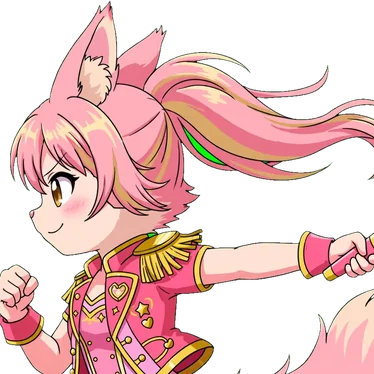
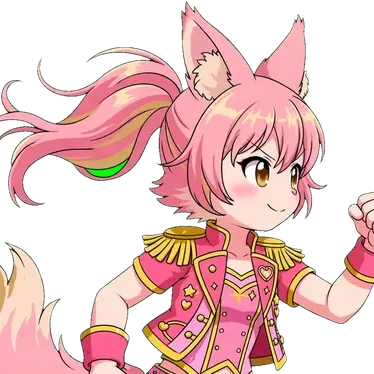
feat(moves): directional normals + 3-hit chain combo; fix(facing): konko redrawn facing forward

diff --git a/js/sim.js b/js/sim.js
@@ -9,7 +9,7 @@
   function newFighter(ci, side) {
     const c = CHARS[ci];
     return { ci, x: side ? 610 : 350, y: GY, vx: 0, vy: 0, face: side ? -1 : 1, hp: c.hp, meter: 30,
-      st: 'idle', t: 0, atk: '', air: 0, hn: 0, ht: -99, stun: 0, combo: 0, dcd: 0, inv: 0, wins: 0, pi: 0, cr: 0 };
+      st: 'idle', t: 0, atk: '', air: 0, hn: 0, ht: -99, stun: 0, combo: 0, dcd: 0, inv: 0, wins: 0, pi: 0, cr: 0, chainT: 0, lastKind: '' };
   }
   function newBattle(c0, c1) {
     return { f: [newFighter(c0, 0), newFighter(c1, 1)], p: [], timer: ROUND_FRAMES, round: 1,
@@ -23,9 +23,25 @@
     b.p = []; b.timer = ROUND_FRAMES; b.phase = 'intro'; b.pt = 0; b.rw = -1; b.tu = 0; b.stop = 0;
   }
   // 技データ。'l'=弱 'h'=強 's'=必殺。派生技（BRIEF4）: 'dl'/'dh'=ダッシュ攻撃、'al'/'ah'=空中の落下攻撃（弱・強のデータから作る）
-  const DERIVED = {};
+  // BRIEF5: 方向つき通常技 'cl'/'ch'=しゃがみ（↓）、'fl'/'fh'=前進（相手方向）、'bl'/'bh'=後退（逆方向）。チェイン 'l2'=2段目、'lf'=フィニッシュ
+  const DERIVED = {}, CHAIN = 28, CHAIN_LENIENCY = 6;
   function derive(c, k) {
-    const hv = k[1] === 'h', n = hv ? c.h : c.l;
+    const hv = k[1] === 'h' || k === 'lf', n = hv ? c.h : c.l;
+    switch (k) {
+      // しゃがみ技：低い位置を打つ（y0/y1 = 判定の下端・上端の高さ）。弱はリーチが長く硬直が短い、強は重いが発生が遅い
+      case 'cl': return Object.assign({}, n, { dmg: n.dmg * 0.9, rng: Math.round(n.rng * 1.15), rc: n.rc - 2, y0: 4, y1: 62, low: 1 });
+      case 'ch': return Object.assign({}, n, { dmg: n.dmg * 1.1, rng: Math.round(n.rng * 1.1), su: n.su + 2, y0: 4, y1: 62, low: 1 });
+      // 前進技：出した瞬間から有効フレームの終わりまで前に進み続ける（ダッシュ攻撃より遅い）
+      case 'fl': return Object.assign({}, n, { dmg: n.dmg * 1.1, rc: n.rc + 2, adv: 1.2 + c.spd * 0.3, step: 1 });
+      case 'fh': return Object.assign({}, n, { dmg: n.dmg * 1.05, rc: n.rc + 3, adv: 1.5 + c.spd * 0.35, step: 1 });
+      // 後退技：発生前のあいだ下がり（back = 速さ）、長いリーチで打つ。硬直が大きい
+      case 'bl': return Object.assign({}, n, { rng: Math.round(n.rng * 1.2), rc: n.rc + 4, back: 3 });
+      case 'bh': return Object.assign({}, n, { dmg: n.dmg * 1.15, rng: Math.round(n.rng * 1.2), rc: n.rc + 5, back: 3 });
+      // チェイン2段目：速く軽い。少し踏み込み、相手をあまり押さない（3段目が届くように）
+      case 'l2': return Object.assign({}, n, { su: Math.max(3, n.su - 2), dmg: n.dmg * 0.8, rc: n.rc - 2, adv: 3, kb: 3 });
+      // フィニッシュ：強ベース。大きく吹き飛ばし、ヒットストップが長い
+      case 'lf': return Object.assign({}, n, { su: n.su - 1, dmg: n.dmg * 1.15, kb: n.kb * 1.6, stopx: 3, adv: 3 });
+    }
     if (k[0] === 'd') // ダッシュ攻撃：前進しながら攻撃。踏み込み大・ダメージ中・硬直やや大
       return { su: n.su + (hv ? 0 : 2), ac: n.ac + 3, rc: n.rc + (hv ? 8 : 6), dmg: hv ? n.dmg : Math.round(n.dmg * 1.5), rng: n.rng + 8,
         adv: (hv ? 4.5 : 5.5) + c.spd * 0.6, hs: hv ? 24 : 19, kb: hv ? 10 : 7, heavy: hv ? 1 : 0, dash: 1 };
@@ -37,7 +53,8 @@
     if (k === 'l') return c.l; if (k === 'h') return c.h; if (k === 's' || !k) return c.sp;
     return DERIVED[c.id + k] || (DERIVED[c.id + k] = derive(c, k));
   }
-  const isHeavy = k => k === 'h' || k === 'dh' || k === 'ah'; // 強攻撃系（強・ダッシュ強・落下強）
+  const isHeavy = k => k === 'h' || k === 'lf' || (k.length === 2 && k[1] === 'h'); // 強攻撃系（強・ダッシュ強・落下強・しゃがみ強・前進強・後退強・フィニッシュ）
+  const chainStart = k => k === 'l' || k === 'cl' || k === 'fl'; // チェインの起点になれる弱攻撃
   function setSt(f, s) { if (f.st !== s) { f.st = s; f.t = 0; } }
   function hurt(f) {
     const c = CHARS[f.ci], sc = c.b.sc || 1;
@@ -55,19 +72,26 @@
       const chip = Math.max(1, Math.round(m.dmg * ca.pow * 0.12));
       d.hp = Math.max(1, d.hp - chip);
       d.st = 'block'; d.t = 0; d.stun = m.heavy ? 16 : 11; d.vx = dir * (m.kb || 4) * 0.7;
+      d.chainT = 0; if (!proj) a.chainT = 0; // ガードした側・された側ともチェイン窓は消える
       d.meter = Math.min(100, d.meter + 3);
       b.ev.push({ k: 'block', x: px, y: py }); b.stop = 3;
     } else {
       d.combo = d.st === 'hit' ? d.combo + 1 : 1;
       const scale = Math.max(0.4, 1 - 0.12 * (d.combo - 1));
       const dmg = Math.max(1, Math.round(m.dmg * ca.pow * scale));
-      d.hp -= dmg; d.st = 'hit'; d.t = 0; d.cr = 0; d.atk = ''; d.air = 0;
+      d.hp -= dmg; d.st = 'hit'; d.t = 0; d.cr = 0; d.atk = ''; d.air = 0; d.chainT = 0; // 被弾でチェイン窓は消える
       d.stun = m.hs || 15; d.vx = dir * (m.kb || 4);
+      // チェイン：弱系がコンボの1発目として当たる／2段目が当たると、攻撃側に窓が開く。
+      // 次の段（idle に戻ってすぐ押した場合＋猶予 CHAIN_LENIENCY フレーム）が連続ヒットになるだけ、のけぞりを延ばす
+      if (!proj && ((chainStart(a.atk) && d.combo === 1) || a.atk === 'l2')) {
+        a.chainT = CHAIN; a.lastKind = a.atk;
+        d.stun = Math.max(d.stun, m.ac + m.rc + mv(ca, a.atk === 'l2' ? 'lf' : 'l2').su + 1 + CHAIN_LENIENCY);
+      }
       if (m.launch) { d.vy = -m.launch; d.y = Math.min(d.y, GY - 1); d.stun = Math.max(d.stun, 34); }
       else if (d.y < GY) d.vy = -5;
       a.meter = Math.min(100, a.meter + dmg * 1.1); d.meter = Math.min(100, d.meter + dmg * 0.7);
       b.ev.push({ k: 'hit', x: px, y: py, h: (m.heavy || m.launch) ? 1 : 0, sp: m.sp ? 1 : 0, c: d.combo, s: ai, d: dmg });
-      b.stop = m.heavy ? 9 : 4; // ヒットストップ：強は弱の2倍以上
+      b.stop = (m.heavy ? 9 : 4) + (m.stopx || 0); // ヒットストップ：強は弱の2倍以上（フィニッシュはさらに +3）
       if (d.hp <= 0) { d.hp = 0; d.st = 'ko'; d.t = 0; d.vy = -9; d.vx = dir * 6; d.y = Math.min(d.y, GY - 1); }
     }
     if (!proj && a.y >= GY && (d.x <= XL + 2 || d.x >= XR - 2)) a.vx = -dir * (m.kb || 4) * 0.8;
@@ -76,10 +100,10 @@
 
   function startAtk(b, i, k) {
     const f = b.f[i];
-    f.st = 'atk'; f.t = 0; f.atk = k; f.hn = 0; f.ht = -99; f.air = f.y < GY ? 1 : 0; f.cr = 0;
+    f.st = 'atk'; f.t = 0; f.atk = k; f.hn = 0; f.ht = -99; f.air = f.y < GY ? 1 : 0; f.cr = 0; f.chainT = 0; // 何か技を出したら窓は閉じる
     if (f.air) { const o = b.f[1 - i]; if (o.x !== f.x) f.face = o.x > f.x ? 1 : -1; } // 落下攻撃は相手の方へ向き直る
     if (k === 's') b.ev.push({ k: 'sp', x: f.x, y: f.y - 70, s: i });
-    else b.ev.push({ k: 'sw', h: isHeavy(k) ? 1 : 0, v: k[0] === 'd' ? 1 : k[0] === 'a' ? 2 : 0, x: f.x, y: f.y, s: i });
+    else b.ev.push({ k: 'sw', h: isHeavy(k) ? 1 : 0, v: k[0] === 'd' ? 1 : k[0] === 'a' ? 2 : 0, m: k, x: f.x, y: f.y, s: i });
   }
 
   function spawnProj(b, i, f, m) {
@@ -103,7 +127,8 @@
         if (t === m.su) { f.vy = m.jump; f.vx = f.face * 3; }
         if (t < m.su + 4) f.inv = 2; else if (gnd) f.vx *= 0.7;
       } else if (gnd) {
-        if (m.dash) { if (t <= m.su + m.ac) f.vx = f.face * m.adv; else f.vx *= 0.7; } // ダッシュ攻撃：発生前から前進し続ける
+        if (m.dash || m.step) { if (t <= m.su + m.ac) f.vx = f.face * m.adv; else f.vx *= 0.7; } // ダッシュ攻撃・前進技：発生前から前進し続ける
+        else if (m.back && t <= m.su) f.vx = -f.face * m.back; // 後退技：発生前のあいだ下がる
         else if (m.adv && t > m.su - 2 && t <= m.su + m.ac) f.vx = f.face * m.adv; else f.vx *= 0.7;
       }
       if (ty === 'warp' && t === m.su - 1) {
@@ -139,6 +164,7 @@
     const f = b.f[i], o = b.f[1 - i], c = CHARS[f.ci];
     const pr = inp & ~f.pi; f.pi = inp; f.t++;
     if (f.dcd > 0) f.dcd--;
+    if (f.chainT > 0) f.chainT--;
     if (f.inv > 0) f.inv--;
     const gnd = f.y >= GY;
     if (f.st === 'hit' || f.st === 'block') {
@@ -157,8 +183,13 @@
       if (f.x !== o.x) f.face = o.x > f.x ? 1 : -1;
       f.cr = 0;
       if ((pr & K.S) && f.meter >= COST) { f.meter -= COST; startAtk(b, i, 's'); }
-      else if (pr & K.A) startAtk(b, i, 'l');
-      else if (pr & K.H) startAtk(b, i, 'h');
+      else if (pr & (K.A | K.H)) {
+        // チェイン窓が開いていれば 弱→2段目（l 系のあと）、強→フィニッシュ（2段目のあと）。それ以外は押した瞬間の方向で種別を決める
+        const lt = pr & K.A, fwd = f.face > 0 ? K.R : K.L, bwd = f.face > 0 ? K.L : K.R;
+        if (f.chainT > 0 && lt && chainStart(f.lastKind)) startAtk(b, i, 'l2');
+        else if (f.chainT > 0 && !lt && f.lastKind === 'l2') startAtk(b, i, 'lf');
+        else startAtk(b, i, ((inp & K.D) ? 'c' : (inp & fwd) ? 'f' : (inp & bwd) ? 'b' : '') + (lt ? 'l' : 'h'));
+      }
       else if (inp & K.G) { setSt(f, 'guard'); f.vx = 0; f.cr = (inp & K.D) ? 1 : 0; }
       else if ((pr & (K.DL | K.DR)) && !f.dcd) {
         f.st = 'dash'; f.t = 0; f.vx = ((pr & K.DL) ? -1 : 1) * (6 + c.spd * 1.2); f.dcd = 28;
@@ -251,7 +282,8 @@
 
   // ---- CPU AI ----
   const AI_T = { react: [26, 20, 14, 9, 5], aggr: [0.35, 0.5, 0.65, 0.8, 0.92], guard: [0.1, 0.25, 0.45, 0.65, 0.85], sp: [0.2, 0.35, 0.5, 0.7, 0.9] };
-  function newAI(lv) { return { lv: Math.max(1, Math.min(5, lv)), cd: 20, held: 0, mt: -99 }; }
+  const AI_CHAIN = [0.2, 0.33, 0.45, 0.55, 0.65]; // l 系を当てたあとチェインを狙う確率（Lv1〜5）。2段目→フィニッシュも同じ確率でもう一度判定
+  function newAI(lv) { return { lv: Math.max(1, Math.min(5, lv)), cd: 20, held: 0, mt: -99, cw: 0 }; }
   function aiInput(b, i, ai) {
     if (b.phase !== 'fight') return 0;
     const n = ai.lv - 1, f = b.f[i], o = b.f[1 - i], c = CHARS[f.ci], oc = CHARS[o.ci];
@@ -266,6 +298,11 @@
         ai.mt = b.frame; if (R() < AI_T.aggr[n] * 0.75) return (R() < 0.6 ? K.A : K.H);
       }
     }
+    // チェイン：窓が開いた時に1度だけ狙うか決め、idle に戻った最初のフレームで押す（反応待ち cd とは別枠）
+    if (f.chainT > 0) {
+      if (!ai.cw) ai.cw = R() < AI_CHAIN[n] ? 1 : 2;
+      if (ai.cw === 1 && (f.st === 'idle' || f.st === 'walk' || f.st === 'crouch')) { ai.cw = 2; ai.cd = Math.max(ai.cd, 4); return f.lastKind === 'l2' ? K.H : K.A; }
+    } else ai.cw = 0;
     if (ai.cd > 0) { ai.cd--; return ai.held; }
     let threat = o.st === 'atk' && o.atk && d < Math.min(mv(oc, o.atk).rng, 400) + 45;
     for (const p of b.p) if (p.o !== i && Math.abs(p.x - f.x) < 170 && (p.vx > 0) === (f.x > p.x)) threat = true;
@@ -284,10 +321,10 @@
     if (spOk && R() < AI_T.sp[n] * 0.45) tap = K.S;
     else if (d < c.l.rng + 8) {
       const q = R();
-      if (q < AI_T.aggr[n]) tap = R() < 0.6 ? K.A : K.H;
+      if (q < AI_T.aggr[n]) { tap = R() < 0.6 ? K.A : K.H; const z = R(); tap |= z < 0.13 ? K.D : z < 0.2 ? away : (z < 0.55 && d > c.l.rng * 0.55) ? toward : 0; } // たまにしゃがみ技・後退技、間合いが遠めなら前進技
       else if (q < AI_T.aggr[n] + 0.12) held = away;
       else held = K.G;
-    } else if (d < c.h.rng + 12 && R() < AI_T.aggr[n] * 0.7) tap = K.H;
+    } else if (d < c.h.rng + 12 && R() < AI_T.aggr[n] * 0.7) { const z = R(); tap = K.H | (z < 0.1 ? K.D : z < 0.18 ? away : z < 0.6 ? toward : 0); }
     else {
       const q = R();
       if (q < AI_T.aggr[n] + 0.12) {
@@ -300,6 +337,6 @@
     return held | tap;
   }
 
-  const api = { K, GY, XL, XR, COST, WINS, newBattle, step, mv, isHeavy, hurt, newAI, aiInput };
+  const api = { K, GY, XL, XR, COST, WINS, CHAIN, newBattle, step, mv, isHeavy, hurt, newAI, aiInput };
   if (NODE) module.exports = api; else root.NJC = Object.assign(root.NJC || {}, api);
 })(typeof window !== 'undefined' ? window : globalThis);

diff --git a/js/draw.js b/js/draw.js
@@ -49,7 +49,7 @@
   // 胴体の太い部分から事前に測った値で、ポーズを切り替えても体の位置が飛ばないようにする（武器やエフェクトの張り出しは無視）。
   const ART = {
     zanrai: [0.301, 0.467, 0.468, 0.46, 0.502], mikoto: [0.519, 0.444, 0.549, 0.579, 0.523], kagemaru: [0.366, 0.465, 0.446, 0.371, 0.518], gounen: [0.365, 0.407, 0.475, 0.44, 0.495],
-    konko: [0.517, 0.336, 0.398, 0.501, 0.487], raidenzan: [0.427, 0.411, 0.341, 0.454, 0.537], shuki: [0.452, 0.48, 0.587, 0.468, 0.514], shion: [0.445, 0.372, 0.48, 0.437, 0.493],
+    konko: [0.46, 0.336, 0.398, 0.473, 0.459], raidenzan: [0.427, 0.411, 0.341, 0.454, 0.537], shuki: [0.452, 0.48, 0.587, 0.468, 0.514], shion: [0.445, 0.372, 0.48, 0.437, 0.493],
     ougi: [0.532, 0.424, 0.483, 0.438, 0.555], nishiki: [0.244, 0.306, 0.43, 0.375, 0.515], kurotengu: [0.401, 0.489, 0.462, 0.409, 0.523], ryujin: [0.472, 0.468, 0.439, 0.489, 0.523],
     mumei: [0.445, 0.471, 0.517, 0.398, 0.417], kaguya: [0.492, 0.508, 0.578, 0.55, 0.463] };
   const POSES = ['atk', 'hit', 'grd', 'hev'];
@@ -274,7 +274,9 @@
 
   // ================= ファイター =================
   const UL = 28, LL = 30, TOR = 44, UA = 22, LA = 22, HR = 13;
-  const isHv = N.isHeavy, baseK = k => (k.length === 2 ? k[1] : k), varK = k => (k.length === 2 ? k[0] : ''); // 'dh' → 強 / ダッシュ
+  const isHv = N.isHeavy;
+  // 種別 → 基本（'l' 弱 / 'h' 強 / 's' 必殺）と、変種（'d' ダッシュ / 'a' 落下 / 'c' しゃがみ / 'f' 前進 / 'b' 後退 / '2' チェイン2段目 / 'x' フィニッシュ）
+  const baseK = k => (k === 'l2' ? 'l' : k === 'lf' ? 'h' : k.length === 2 ? k[1] : k), varK = k => (k === 'l2' ? '2' : k === 'lf' ? 'x' : k.length === 2 ? k[0] : '');
   const pt = (p, a, l) => ({ x: p.x + Math.sin(a) * l, y: p.y + Math.cos(a) * l });
   const BASE = { lean: 0.1, aF: [0.55, 1.9], aB: [0.25, 1.6], lF: [0.3, -0.05], lB: [-0.3, -0.3], w: 2.5 };
   const P = o => Object.assign({}, BASE, o);
@@ -316,6 +318,7 @@
           if (f.atk === 's' && m.spin) { const a = 1.57 + (t - m.su) * 0.9; p.aF = [a, a]; p.w = a; p.lean = 0.2; }
         } else p = mix(ps[1], BASE, Math.min(1, (t - m.su - m.ac) / m.rc));
         if (f.air) { p.lF = AIR_F; p.lB = AIR_B; }
+        else if (varK(f.atk) === 'c') { p.lF = CROUCH_F; p.lB = CROUCH_B; } // しゃがみ技
         return p;
       }
       default: return P({});
@@ -525,7 +528,8 @@
   // 斬撃の弧・ビーム・必殺技の溜めオーラ（ベクター／スプライト共通。向きを反転済みの座標系で呼ぶ）
   // geo: hx,hy=手元  cy=弧の中心の高さ  R=弧の半径  ay=オーラ中心の高さ  k=太さなどの倍率
   function drawAtkFx(c, f, m, g, alpha, geo) {
-    const t = f.t, ty = f.atk === 's' ? m.type : '', k = geo.k, hv = isHv(f.atk), fall = !!m.fall;
+    const t = f.t, ty = f.atk === 's' ? m.type : '', k = geo.k, hv = isHv(f.atk), fall = !!m.fall, vr = varK(f.atk);
+    const cy = vr === 'c' ? geo.cy * 0.7 : geo.cy; // しゃがみ技は弧の中心も低い
     const tail = hv ? 7 : 3; // 強の斬撃は長く残る
     if (t > m.su && t <= m.su + m.ac + tail && !(fall && !f.air)) {
       const u = fall ? 0.8 : 1 - (t - m.su) / (m.ac + tail + 1);
@@ -541,13 +545,25 @@
         let a0 = -0.5, a1 = 0.45;
         if (hv || ty === 'quake') { a0 = -1.45; a1 = 0.7; } else if (ty === 'upper') { a0 = -1.5; a1 = 0.7; } else if (ty) { a0 = -0.8; a1 = 0.7; }
         if (f.air || ty === 'dive') { a0 = -0.2; a1 = 1.3; }
+        else if (vr === 'c') { if (hv) { a0 = -0.3; a1 = 0.95; } else { a0 = 0.1; a1 = 0.85; } } // しゃがみ技：足元を払う低い弧
+        else if (vr === 'f') { a0 += 0.12; a1 += 0.18; } // 前進技：前へ突き出す
+        else if (vr === 'b') a0 -= 0.3; // 後退技：長く振り抜く
+        else if (vr === '2') { a0 = -0.28; a1 = 0.3; } // 2段目：小さい弧
         // 弱＝細く短い弧、強＝太く大きい二重の弧（発光はぼかしではなく、太い半透明の線を下に敷く）
-        const R = geo.R * (hv ? 1.14 : 1), lw = (ty ? 13 : hv ? 17 : 8) * k, a = alpha * Math.max(0, u);
+        const R = geo.R * (hv ? 1.14 : 1) * (vr === '2' ? 0.8 : vr === 'x' ? 1.1 : 1), lw = (ty ? 13 : hv ? 17 : 8) * k * (vr === '2' ? 0.75 : vr === 'x' ? 1.2 : 1), a = alpha * Math.max(0, u);
         c.lineCap = 'round'; c.strokeStyle = g;
-        c.globalAlpha = a * 0.26; c.lineWidth = lw * 2.3; c.beginPath(); c.arc(0, geo.cy, R, a0, a1); c.stroke();
-        c.globalAlpha = a; c.lineWidth = lw; c.beginPath(); c.arc(0, geo.cy, R, a0, a1); c.stroke();
-        if (hv) { c.globalAlpha = a * 0.55; c.lineWidth = lw * 0.5; c.beginPath(); c.arc(0, geo.cy, R - lw * 1.5, a0 + 0.25, a1 - 0.1); c.stroke(); c.globalAlpha = a; }
-        c.strokeStyle = '#fff'; c.lineWidth = (hv ? 4.5 : 2.5) * k; c.beginPath(); c.arc(0, geo.cy, R + 2, a0 + 0.1, a1 - 0.1); c.stroke();
+        c.globalAlpha = a * 0.26; c.lineWidth = lw * 2.3; c.beginPath(); c.arc(0, cy, R, a0, a1); c.stroke();
+        c.globalAlpha = a; c.lineWidth = lw; c.beginPath(); c.arc(0, cy, R, a0, a1); c.stroke();
+        if (hv) { c.globalAlpha = a * 0.55; c.lineWidth = lw * 0.5; c.beginPath(); c.arc(0, cy, R - lw * 1.5, a0 + 0.25, a1 - 0.1); c.stroke(); c.globalAlpha = a; }
+        c.strokeStyle = '#fff'; c.lineWidth = (hv ? 4.5 : 2.5) * k; c.beginPath(); c.arc(0, cy, R + 2, a0 + 0.1, a1 - 0.1); c.stroke();
+        if (vr === 'x') { // フィニッシュ：弧の先に十字の閃光
+          const q = Math.max(0, 1 - (t - m.su - 1) / 6), fx0 = R * 0.98, len = (70 + 50 * q) * k;
+          for (const [ang, w, col, al] of [[0.5, 9, g, 0.5], [0.5, 3.5, '#fff', 1], [-0.95, 7, g, 0.45], [-0.95, 2.5, '#fff', 0.9]]) {
+            c.globalAlpha = alpha * al * q; c.strokeStyle = col; c.lineWidth = w * k; c.beginPath();
+            c.moveTo(fx0 - Math.cos(ang) * len, cy - Math.sin(ang) * len); c.lineTo(fx0 + Math.cos(ang) * len, cy + Math.sin(ang) * len); c.stroke();
+          }
+          c.globalAlpha = alpha * 0.8 * q; c.fillStyle = '#fff'; c.beginPath(); c.arc(fx0, cy, 13 * k * (0.5 + q), 0, PI * 2); c.fill();
+        }
         c.lineCap = 'butt'; c.globalAlpha = alpha;
       }
     }
@@ -616,13 +632,21 @@
           else { const u = 1 - Math.min(1, (t - end) / m.rc); dx = 16 * u * u; rot = lean * u; if (u > 0.6) ghost = 2; }
         } else {
           // 弱＝小さく速い。強＝大きく引いて（溜め）深く踏み込む。突進系の必殺技は sim 側が本体を動かすので、見た目の踏み込みは小さくする
-          const big = hv && !sp, lean = f.atk === 'l' ? 0.08 : big ? 0.2 : 0.15;
-          const reach = f.atk === 'l' ? 20 : big ? 44 : (m.adv || ty === 'dive' || ty === 'upper' || ty === 'warp') ? 12 : 26;
-          const back = big ? 22 : 10, br = big ? 0.14 : 0.07, bs = big ? 0.09 : 0.05;
+          const big = hv && !sp, lt = !hv && !sp;
+          let lean = lt ? 0.08 : big ? 0.2 : 0.15;
+          let reach = lt ? 20 : big ? 44 : (m.adv || ty === 'dive' || ty === 'upper' || ty === 'warp') ? 12 : 26;
+          let back = big ? 22 : 10, br = big ? 0.14 : 0.07; const bs = big ? 0.09 : 0.05;
+          // BRIEF5 の変種（絵は同じ。傾き・踏み込み・潰しで差を付ける）
+          if (vr === 'f') { lean *= 2.1; reach += 8; back = 0; br = big ? -0.14 : -0.1; ghost = 1; } // 前進技：発生前から前のめり（引かない）
+          else if (vr === 'b') { back += 12; br += 0.17; lean += 0.1; reach += 6; } // 後退技：発生中は大きく後ろに反り、打ち出しで前傾
+          else if (vr === '2') { lean = 0.05; reach = 12; back = 3; br = 0.02; } // 2段目：小さく速い
+          else if (vr === 'x') { lean = 0.27; reach = 54; back = 26; } // フィニッシュ：強より深く
           if (t <= m.su) { let u = t / m.su; if (big) u = u * u * (3 - 2 * u); dx = -back * u; rot = -br * u; sy = 1 - bs * u; sx = 1 + bs * 0.4 * u; if (big && t > m.su - 3) dx += (t % 2 ? 1.5 : -1.5); } // 予備動作：沈んで後ろに引く（強は深く、最後に震える）
           else if (t <= end) { const u = Math.min(1, (t - m.su) / 2); dx = -back + (reach + back) * u; rot = -br + (lean + br) * u; if (m.adv) ghost = 2; }
           else { const u = 1 - Math.min(1, (t - end) / m.rc); dx = reach * u * u; rot = lean * u; }
           if (f.air || ty === 'dive') { py = H * 0.5; rot += 0.16; }
+          if (vr === 'c') { const q = t <= end ? Math.min(1, t / 3) : 1 - Math.min(1, (t - end) / m.rc); sy *= 1 - 0.22 * q; sx *= 1 + 0.06 * q; rot *= 0.6; } // しゃがみ技：低く潰して打つ
+          if (vr === 'x' && t > m.su && t <= m.su + 2) white = 0.55; // フィニッシュの出際は白く光る
         }
         if (ty === 'warp' && t < m.su) alpha *= 0.25 + 0.3 * Math.abs(Math.sin(t));
         if (f.ht >= 0 && t >= f.ht && t - f.ht <= 5) { const zz = 1 + (hv ? 0.13 : 0.08) * (1 - (t - f.ht) / 6); sx *= zz; sy *= zz; } // ヒットの瞬間だけ拡大（強は大きく）
@@ -770,7 +794,7 @@
       case 'warp': sparks(e.x, e.y, '#3dff9a', 10, 5); break;
       case 'shot': fx.rings.push({ x: e.x, y: e.y, r: 4, vr: 5, life: 8, col: CHARS[b.f[e.s].ci].col.g }); break;
       case 'dash': dust(e.x, 5, 2); break;
-      case 'sw': if (e.v === 1) dust(e.x, 4, 2.5); break; // ダッシュ攻撃の踏み切り
+      case 'sw': if (e.v === 1) dust(e.x, 4, 2.5); else if (e.m && e.m.length === 2 && (e.m[0] === 'f' || e.m[0] === 'b')) dust(e.x, 3, 1.6); break; // ダッシュ攻撃の踏み切り／前進技・後退技の足元
       case 'land': dust(e.x, e.h ? 10 : 6, e.h ? 4 : 2.8); fx.shake = Math.max(fx.shake, e.h ? 6 : 2.5); break; // 落下攻撃の着地
       case 'ko': fx.shake = 16; fx.flash = 6; break;
     }

diff --git a/index.html b/index.html
@@ -7,7 +7,7 @@
 <meta name="apple-mobile-web-app-capable" content="yes">
 <meta name="theme-color" content="#07041c">
 <title>NEO JAPAN CLASH（仮）</title>
-<link rel="stylesheet" href="style.css?v=20261111d">
+<link rel="stylesheet" href="style.css?v=20261111e">
 </head>
 <body>
 <canvas id="game" width="960" height="540"></canvas>
@@ -36,13 +36,13 @@
 
 <div id="rotate"><div class="phone"></div><p>横にしてください</p><small>このゲームは横画面専用です</small></div>
 
-<script src="js/data.js?v=20261111d"></script>
-<script src="js/sim.js?v=20261111d"></script>
-<script src="js/draw.js?v=20261111d"></script>
-<script src="js/audio.js?v=20261111d"></script>
-<script src="js/input.js?v=20261111d"></script>
-<script src="js/net.js?v=20261111d"></script>
-<script src="js/main.js?v=20261111d"></script>
+<script src="js/data.js?v=20261111e"></script>
+<script src="js/sim.js?v=20261111e"></script>
+<script src="js/draw.js?v=20261111e"></script>
+<script src="js/audio.js?v=20261111e"></script>
+<script src="js/input.js?v=20261111e"></script>
+<script src="js/net.js?v=20261111e"></script>
+<script src="js/main.js?v=20261111e"></script>
 <script>
 // 起動ウォッチドッグ：古いキャッシュの混在などで起動が止まった場合、一度だけ開き直して自己回復する
 setTimeout(function () {
